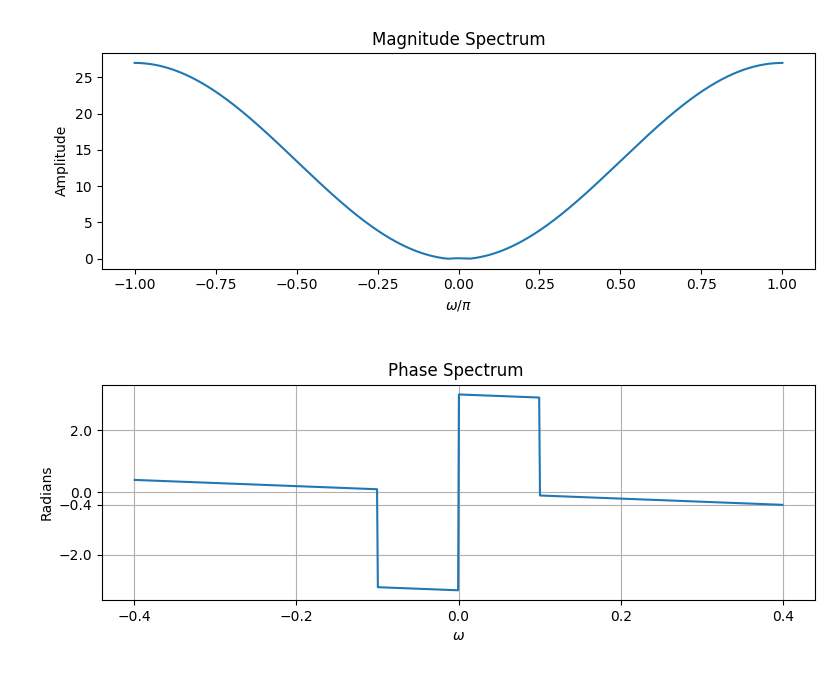
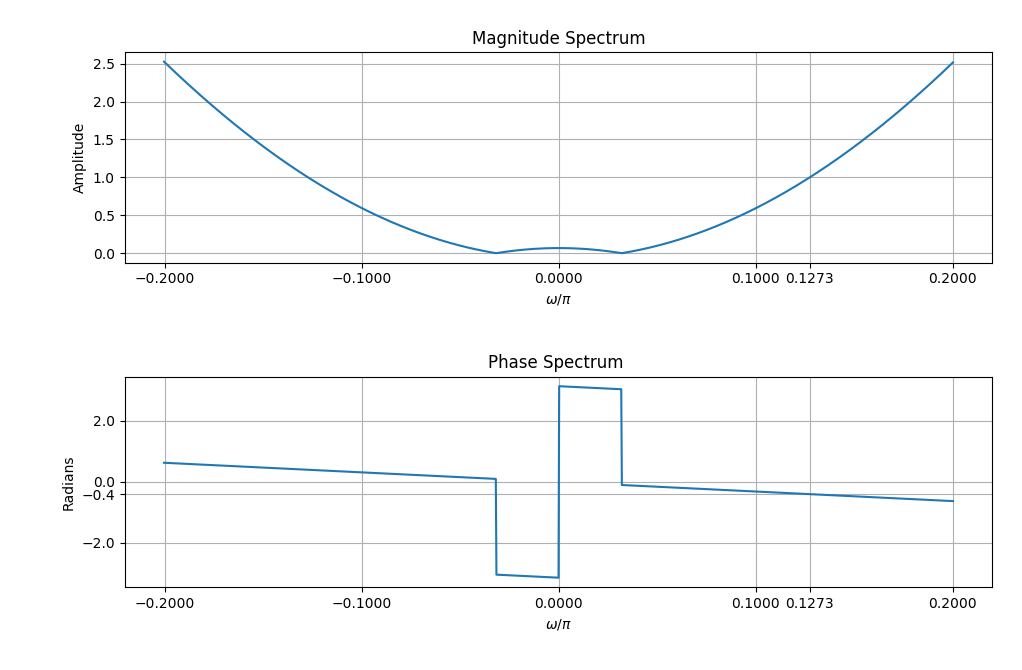
add program05

diff --git a/hw05/program_02.py b/hw05/program_02.py
@@ -1,0 +1,59 @@
+#!/usr/bin/env python3
+# -*- coding: utf-8 -*-
+"""
+Created on Tue Nov  7 14:54:59 2017
+
+@author: rocky
+"""
+
+import numpy as np 
+import matplotlib.pyplot as plt 
+
+def DTFT(x_n,omega,sequence):
+    DTFT=[]
+    for element in omega:
+        DTFT.append(np.dot(x_n,np.exp(-1j*element*sequence)))
+    return DTFT
+def DFT(x_n,k,sequence):
+    DFT=[]
+    for element in k :
+        DFT.append(np.dot(x_n,np.exp(-1j*2*pi*element*sequence/16)))
+    return DFT
+
+    
+if __name__ == '__main__':
+    pi = np.pi
+    sequence = np.arange(0,16)
+    x_n = np.cos(6*pi*sequence/16)
+    k = np.arange(0,16)
+    
+    X_k=DFT(x_n,k,sequence)    
+    DFT_Interpolation=[]
+    N=len(sequence)    
+    omega=np.arange(-1.5*pi,1.5*pi+0.001,0.05)
+    for element in omega:
+        first_item=np.sin((element*N-2*pi*k)/2)/ np.sin((element*N-2*pi*k)/2*N)
+        second_item=np.exp(-1j*(element-(2*pi*k/N))*((N-1)/2))
+        inter_poly=first_item*second_item
+        DFT_Interpolation.append(np.dot(X_k,inter_poly)/N) 
+    
+    #plt.stem(X_k)
+    plt.plot(omega/pi,np.abs(DTFT(x_n,omega,sequence)))
+    plt.plot(omega/pi,np.abs(DFT_Interpolation))
+    plt.show()
+    
+    
+    
+    
+    
+    
+    
+    
+    
+    
+    
+    
+    
+    
+    
+    

diff --git a/hw04/program4/program_4_4_1.py b/hw04/program4/program_4_4_1.py
@@ -19,22 +19,30 @@ for element in omega:
     Gp.append(y)
 
 plt.subplot(2,1,1)
-plt.plot(omega/np.pi,np.abs(Gp))
+plt.plot((omega/np.pi)[2512:3771],(np.abs(Gp))[2512:3771])
 plt.title('Magnitude Spectrum')
 plt.xlabel('$\omega$/$\pi$')
 plt.ylabel('Amplitude')
+plt.grid()
+xtick=list(np.arange(-0.2,0.3,0.1))
+xtick.append(0.1273)
+ytick=[i for i in range(0,3,1)]
+plt.xticks(xtick)
+
 plt.subplot(2,1,2)
 angle=np.angle(Gp)
-plt.plot(omega[2742:3542],angle[2742:3542])
-xtick=np.arange(-0.4,0.5,0.2)
+plt.plot((omega/pi)[2512:3771],angle[2512:3771])
+xtick=list(np.arange(-0.2,0.3,0.1))
+xtick.append(0.1273)
 ytick=[i for i in range(-2,3,2)]
 ytick.append(angle[3542])
 plt.grid()
 plt.yticks(ytick)
 plt.xticks(xtick)
 plt.title('Phase Spectrum ')
-plt.xlabel('$\omega$')
+plt.xlabel('$\omega$/$\pi$')
 plt.ylabel('Radians')
 plt.tight_layout()
+
 plt.show()
 

diff --git a/hw05/program_01.py b/hw05/program_01.py
@@ -1,0 +1,37 @@
+#!/usr/bin/env python3
+# -*- coding: utf-8 -*-
+"""
+Created on Tue Nov  7 11:09:22 2017
+
+@author: rocky
+"""
+
+import numpy as np 
+import matplotlib.pyplot as plt 
+
+
+def zero_padding(seq,extendSize):
+    padding=np.zeros(extendSize)
+    padding[:len(seq)]=seq    
+    return padding
+    
+pi = np.pi
+sequence = np.arange(0,16)
+x_n = np.cos(6*pi*sequence/16)
+k=np.arange(0,16)
+DFT=[]
+for element in k :
+    DFT.append(np.dot(x_n,np.exp(-1j*2*pi*element*sequence/16)))
+
+plt.stem(k/16,np.abs(DFT))
+M=32
+x_n_padding=zero_padding(x_n,M)
+DTFT=[]
+k=np.arange(0,32)
+sequence = np.arange(0,32)
+for element in k :
+    DTFT.append(np.dot(x_n_padding,np.exp(-1j*2*pi*element*sequence/32)))
+
+
+plt.plot(k/32,np.abs(DTFT))
+plt.show()

diff --git a/hw04/program4/program_4_4_2.py b/hw04/program4/program_4_4_2.py
@@ -19,8 +19,8 @@ y = np.convolve(x,h)
 plt.title('$\omega_0=0.4$')
 plt.xlabel('Time index')
 plt.ylabel('Amplitude')
-plt.stem(sequence,x,label='x[n]')
-plt.stem(sequence,y[:-2],markerfmt='ro',label='y[n]')
+plt.stem(sequence[0:50],x[0:50],label='x[n]')
+plt.stem(sequence[0:50],y[0:50],markerfmt='ro',label='y[n]')
 plt.legend()
 plt.tight_layout()
 plt.show()

diff --git a/hw05/program_03.py b/hw05/program_03.py
@@ -1,0 +1,10 @@
+#!/usr/bin/env python3
+# -*- coding: utf-8 -*-
+"""
+Created on Tue Nov  7 16:13:49 2017
+
+@author: rocky
+"""
+
+import numpy as np 
+import matplotlib.pyplot as plt 
